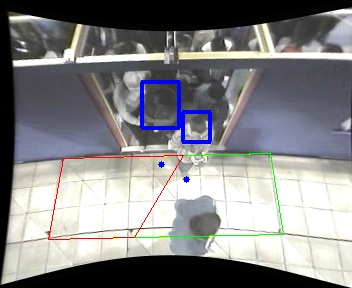
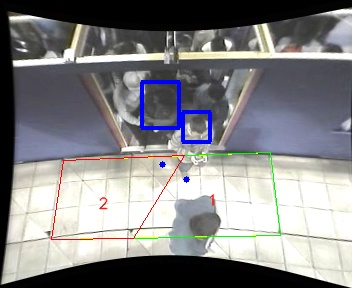
12th

diff --git a/object_detection/draw.py b/object_detection/draw.py
@@ -263,34 +263,14 @@ class Drawing(object):
                     begin_end.append(intersection)
 
             polinomios = self.measures.divide_n_conquer_2(begin_end,continuacion_poly_points)
-            ################################################################################################
-            #
-            # arreglo_c_correct = []
-            # def_points_1 = pol
-            # def_points_2 = pol
-            # for c,kn in enumerate(self.poly_points):
-            #     kn = str(kn)
-            #     if kn in str_to(pol):
-            #         arreglo_c_correct.append(c)
-            #
-            # for ff,kkk in enumerate(arreglo_c_correct):
-            #     if ff!=0:
-            #         for i in self.poly_points[arreglo_c_correct[ff-1]:arreglo_c_correct[ff]+1]:
-            #             def_points_1.append(i)
-            #
-            # for kg in self.poly_points[arreglo_c_correct[1]:]:
-            #     def_points_2.append(kg)
-            # for kg in self.poly_points[:arreglo_c_correct[0]+1]:
-            #     def_points_2.append(kg)
-            ##################################################################################################
+
             for en,po in enumerate(polinomios):
                 pts = np.array(po).reshape((-1,1,2))
                 if en==0:
                     cv2.polylines(image,[pts],True,(0,255,0))
                 else:
                     cv2.polylines(image,[pts],True,(0,0,255))
-                # cv2.imshow('Area selection',image)
-                # cv2.waitKey(0)
+
                 hull = ConvexHull(po)
 
                 cx = np.mean(hull.points[hull.vertices,0])
@@ -298,41 +278,10 @@ class Drawing(object):
                 polygons.append(hull.volume)
                 polygon_area += hull.volume
                 polygon_number+=1
-                cv2.putText(image, str(polygon_number), (round(cx-10),round(cy+10)), cv2.FONT_HERSHEY_SIMPLEX, 0.5, (255,255,255), 1, cv2.LINE_AA)
+                cv2.putText(image, str(polygon_number), (round(cx-10),round(cy+10)), cv2.FONT_HERSHEY_SIMPLEX, 0.5, (0,0,255), 1, cv2.LINE_AA)
 
-
-##### QUEDE ACAAAAAAAAAAAAAAAAAAAAAAAAAAAAAAAAAAAAAAAAAAA!!!!!!!!!!!!!!!!!!!!!!!!!!!!!!!!!!!!!!!!!!1
-            ##################################################################################################
-            # hull = ConvexHull(def_points_1)
-            # for simplex in hull.simplices:
-            #     p_x_s = def_points_1[simplex[0]][0]
-            #     p_y_s = def_points_1[simplex[0]][1]
-            #     p_x_f = def_points_1[simplex[1]][0]
-            #     p_y_f = def_points_1[simplex[1]][1]
-            #     cv2.line(image,(p_x_s,p_y_s),(p_x_f,p_y_f),(255,0,0),2)
-            #
-            # cx = np.mean(hull.points[hull.vertices,0])
-            # cy = np.mean(hull.points[hull.vertices,1])
-            # polygons.append(hull.volume)
-            # polygon_area += hull.volume
-            # polygon_number+=1
-            # cv2.putText(image, str(polygon_number), (round(cx-10),round(cy+10)), cv2.FONT_HERSHEY_SIMPLEX, 0.5, (255,255,255), 1, cv2.LINE_AA)
-            #
-            # hull = ConvexHull(def_points_2)
-            # for simplex in hull.simplices:
-            #     p_x_s = def_points_2[simplex[0]][0]
-            #     p_y_s = def_points_2[simplex[0]][1]
-            #     p_x_f = def_points_2[simplex[1]][0]
-            #     p_y_f = def_points_2[simplex[1]][1]
-            #     cv2.line(image,(p_x_s,p_y_s),(p_x_f,p_y_f),(255,0,0),2)
-            #
-            # cx = np.mean(hull.points[hull.vertices,0])
-            # cy = np.mean(hull.points[hull.vertices,1])
-            # polygons.append(hull.volume)
-            # polygon_area += hull.volume
-            # polygon_number+=1
-            # cv2.putText(image, str(polygon_number), (round(cx-10),round(cy+10)), cv2.FONT_HERSHEY_SIMPLEX, 0.5, (255,255,255), 1, cv2.LINE_AA)
-
+                # cv2.imshow('Area selection',image)
+                # cv2.waitKey(0)
 
         else:
             rec_points = np.flip(rec_points)

diff --git a/object_detection/nn.py b/object_detection/nn.py
@@ -1,14 +1,71 @@
 import numpy as np
+import random
+from scipy.spatial import Voronoi, ConvexHull,voronoi_plot_2d
+import matplotlib.pyplot as plt
 
-k = np.array([[2,3],[-4,-5],[6,7],[11,22]])
-h = np.array([[-4,-5],[8,9]])
-for m in k:
-    for n in h:
-        if (n==m).all():
-            print(m)
-        #print(((h==m).reshape(2,-1)))
 
-# print(k)
-# values = k==[2,7]
-# print(values)
-# print(k[values])
+coords = np.array([[random.randint(1,10), random.randint(1,14)] for _ in range(10)])
+print(coords)
+vor = Voronoi(coords)
+
+print('REGIONES')
+print(vor.regions) # se componen de los vertices
+
+################# SECCION DE POLINOMIO CERRADOS ####################3
+ind = 0
+
+regiones_abiertas = []
+
+for r in vor.regions:
+    if (np.array(r)>=0).all() and len(r)>0:
+        ind+=1
+        print('REGION',str(ind))
+        # polinomio = []
+        # for i in r:
+        #     polinomio.append(vor.vertices[i])
+        #
+        # pts = np.array(polinomio).reshape((-1,1,2))
+        # #cv2.polylines(image,[pts],True,(0,255,0))
+        #
+        # hull = ConvexHull(polinomio)
+
+        # cx = np.mean(hull.points[hull.vertices,0])
+        # cy = np.mean(hull.points[hull.vertices,1])
+        # polygons.append(hull.volume)
+        # polygon_area += hull.volume
+
+#########################################################################
+    elif (np.array(r)<0).any() and len(r)>0:
+        reg = [vor.vertices[j] for j in r if j>=0]
+        if len(reg)>1:
+            for pointidx, simplex in zip(vor.ridge_points, vor.ridge_vertices):
+                simplex = np.asarray(simplex)
+                if np.any(simplex < 0) and simplex[simplex >= 0][0] == :
+                    i = simplex[simplex >= 0][0] # finite end Voronoi vertex
+                    t = rec_points[pointidx[1]] - rec_points[pointidx[0]]  # tangent
+                    t = t / np.linalg.norm(t)
+                    n = np.array([-t[1], t[0]]) # normal
+                    midpoint = rec_points[pointidx].mean(axis=0)
+                    p_f = vor.vertices[i] + np.sign(np.dot(midpoint - t, n)) * n * 1700
+                    p_i = np.array([round(vor.vertices[i,0]),round(vor.vertices[i,1])])  # x,y     # vertices infinitos de voronoi
+
+                    line2 = np.vstack((p_f,p_i))
+
+                    for (_0,_1) in zip(np.array(self.poly_points),np.array(self.poly_points_shift)):
+                        line1 = np.vstack((_0,_1))
+                        intersection = self.measures.line_intersection(line1,line2)
+
+                        continuacion_poly_points.append(_0)
+
+                        if self.poly_extended.contains(geometry.Point(intersection)):
+                            continuacion_poly_points.append(intersection)
+                            begin_end.append(intersection)
+
+        else:
+            
+
+
+
+
+fig = voronoi_plot_2d(vor)
+plt.show()

diff --git a/object_detection/nn2.py b/object_detection/nn2.py
@@ -1,0 +1,7 @@
+import numpy as np
+import random
+from scipy.spatial import Voronoi, ConvexHull,voronoi_plot_2d
+import matplotlib.pyplot as plt
+
+line = np.array([[1,2],[3,4]])
+print(*line)
